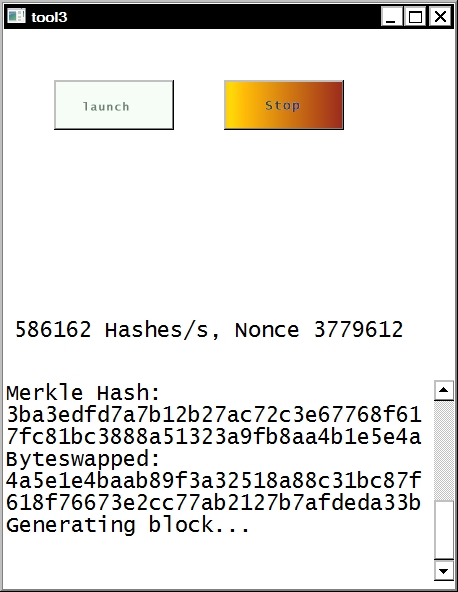
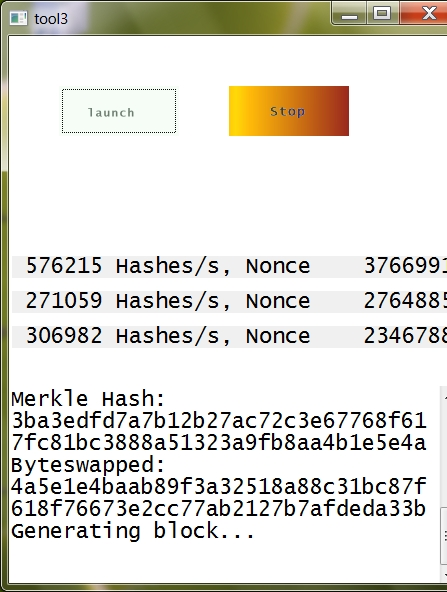
mt grinded ,

diff --git a/tool3/MainFrm.cpp b/tool3/MainFrm.cpp
@@ -54,17 +54,21 @@ CMainFrame::~CMainFrame()
 HWND hc,hz;
 CButton *bh;
 CButton *q;
-CStatic *b7;
-HANDLE cl;
+CStatic *b7[3];
+HANDLE cl[3];
 
 int CMainFrame::OnCreate(LPCREATESTRUCT lpCreateStruct)
 {	
-	cl=CreateEvent(NULL,1,0,NULL);
+	cl[0]=CreateEvent(NULL,1,0,NULL);
+	cl[1]=CreateEvent(NULL,1,0,NULL);
+	cl[2]=CreateEvent(NULL,1,0,NULL);
 	if (CWnd::OnCreate(lpCreateStruct) == -1)
 		return -1;
 	bh=new CButton();
 
-	b7=new CStatic();
+	b7[0]=new CStatic();
+	b7[1]=new CStatic();
+	b7[2]=new CStatic();
 	q=new CButton();
 	CBitmap wq[2];
 
@@ -77,7 +81,9 @@ int CMainFrame::OnCreate(LPCREATESTRUCT lpCreateStruct)
 	bh->SetBitmap(wq[0]);
 	q->Create(L"stop",BS_BITMAP|WS_CHILD|WS_VISIBLE|WS_DISABLED,CRect(50+170,50,170+170,100),this,233);
 	q->SetBitmap(wq[1]);
-	b7->Create(L"to go :",WS_CHILD|WS_VISIBLE|SS_WHITEFRAME|SS_SIMPLE,CRect(3,290,473,320),this);
+	b7[0]->Create(L"to go :",WS_CHILD|WS_VISIBLE|SS_WHITEFRAME|SS_SIMPLE,CRect(3,290,473,320),this);
+	b7[1]->Create(L"to go :",WS_CHILD|WS_VISIBLE|SS_WHITEFRAME|SS_SIMPLE,CRect(3,290-70,473,320-70),this);
+	b7[2]->Create(L"to go :",WS_CHILD|WS_VISIBLE|SS_WHITEFRAME|SS_SIMPLE,CRect(3,290-35,473,320-35),this);
 	 hc=CreateWindowEx(WS_EX_NOPARENTNOTIFY, MSFTEDIT_CLASS,NULL, 
 		ES_MULTILINE|ES_AUTOVSCROLL| WS_VISIBLE | WS_CHILD |WS_TABSTOP|WS_VSCROLL, 
         1, 350, 450, 201, this->m_hWnd, NULL, h, NULL);
@@ -87,7 +93,9 @@ int CMainFrame::OnCreate(LPCREATESTRUCT lpCreateStruct)
 	
 	::PostMessage(hc,WM_SETFONT,(WPARAM)newFont,(LPARAM)0);
 	hz=this->m_hWnd;
-	::PostMessage(b7->m_hWnd,WM_SETFONT,(WPARAM)newFont,(LPARAM)0);
+	::PostMessage(b7[0]->m_hWnd,WM_SETFONT,(WPARAM)newFont,(LPARAM)0);
+	::PostMessage(b7[1]->m_hWnd,WM_SETFONT,(WPARAM)newFont,(LPARAM)0);
+	::PostMessage(b7[2]->m_hWnd,WM_SETFONT,(WPARAM)newFont,(LPARAM)0);
 	return 0;
 }
 
@@ -152,12 +160,14 @@ Transaction *InitTransaction()
 int bren=5;
 int cr,f,b,terminator;
 
-VOID c(VOID *)
-{				
+VOID c(VOID *x)
+{	
+    const byte c=(byte)x; 
+	ResetEvent(cl[c]); 
     q->EnableWindow();
+    bh->EnableWindow(0);
     CWin32Heap stringHeap(HEAP_NO_SERIALIZE, 0, 0);
     CAtlStringMgr M(&stringHeap);
-    triggerblock  z = {};
     CString t(&M), bear(&M);
     SetThreadExecutionState(ES_CONTINUOUS | ES_SYSTEM_REQUIRED | ES_AWAYMODE_REQUIRED | ES_DISPLAY_REQUIRED);
 	SETTEXTEX fw;
@@ -274,7 +284,7 @@ VOID c(VOID *)
 	PostMessage(hc, WM_VSCROLL, SB_BOTTOM, 0);					                   
 	
 		unsigned char  block_hash1[32];
-		blockheader block_header={/* drift */ 1 , {} , {} , unixtime == 0 ? time(NULL) : unixtime,  nBits , startNonce };
+		blockheader block_header={/* drift */ 1 , {} , {} , unixtime == 0 ? time(NULL) + c : unixtime + c,  nBits , startNonce };
 		blockhash block_hashf;
 		unsigned char* block_headerp=(unsigned char*)&block_header;
 		unsigned char* block_hashfp=(unsigned char*)&block_hashf;
@@ -282,7 +292,7 @@ VOID c(VOID *)
 		memcpy(&block_header.merk, transaction->merkleHash, 32);
 		unsigned int counter=0, start = time(NULL);
 		std::wstringstream w;
-		std::ios_base::iostate x=0;
+		std::ios_base::iostate xh=0;
     while (1) {
 		{
 			SHA256(block_headerp, 80, block_hash1);
@@ -298,7 +308,7 @@ VOID c(VOID *)
 				SendMessage(hc,EM_SETTEXTEX,(WPARAM)&fw,(LPARAM)(LPCWSTR)bear);
 				PostMessage(hc, WM_VSCROLL, SB_BOTTOM, 0);					                   
 				free(blockHash);
-				b=1;
+				b=9;
 			}
 			
 			
@@ -308,25 +318,25 @@ VOID c(VOID *)
 				w<<std::setw(7)<< counter<<L" Hashes/s, Nonce "<< std::setw(10.10)<< block_header.startNonce;
 				counter = 0;
 				start = time(NULL);
-				b7->SetWindowTextW((LPCWSTR)w.str().c_str());
-				w.clear(x, 0);
+				b7[c]->SetWindowTextW((LPCWSTR)w.str().c_str());
+				w.clear(xh, 0);
 				w.str(L"");
 			}
 			
 
 			if(block_header.startNonce == 0x100000000 - 1)
 			{
-				block_header.unixtime++; //trick is that to change pre-start time to find a block(really it's smth else) faster then nonce wraps
+				block_header.unixtime=block_header.unixtime + 3;//trick is that to change pre-start time to find a block(really it's smth else) faster then nonce wraps
 			}
 			block_header.startNonce++;
 		}
 	
 	if (b) {
 	    q->EnableWindow(0);
-	    b = 0;
 	    bh->EnableWindow();
-	    if (terminator) PostMessage(hz, WM_CLOSE, NULL, NULL);
+	    if (terminator) { PostMessage(hz, WM_CLOSE, NULL, NULL);}
 	    else {	    }
+	    b -= 3;
 	free(merkleHash);
 	free(merkleHashSwapped);
 	free(txScriptSig);
@@ -334,9 +344,9 @@ VOID c(VOID *)
 	free(transaction->serializedData);
 	free(transaction->scriptSig);
 	free(transaction->pubkeyScript);
-	free(transaction);
-    
+	free(transaction);SetEvent(cl[c]);
 	    bren = 5;
+	 SetEvent(cl[c]); 
 	    break;
 	}
     }
@@ -349,12 +359,14 @@ int terminator2;
 void CMainFrame::tr()
 {   
 			bren=0;
-			AfxBeginThread((AFX_THREADPROC)c,NULL,0,1400000);
+			AfxBeginThread((AFX_THREADPROC)c,(LPVOID)0,0,1400000);
+			AfxBeginThread((AFX_THREADPROC)c,(LPVOID)1,0,1400000);
+			AfxBeginThread((AFX_THREADPROC)c,(LPVOID)2,0,1400000);
 }
 
 void CMainFrame::w()
 {
-	b=1;
+	b=9;
 }
 
 
@@ -365,7 +377,9 @@ void CMainFrame::OnDestroy()
 	CWnd::OnDestroy();
 	delete bh;
 	delete q;
-	delete b7;
+	delete b7[0];
+	delete b7[1];
+	delete b7[2];
 //	delete rew;
 
 	// TODO: Add your message handler code here
@@ -379,14 +393,14 @@ void CMainFrame::OnClose()
 	wchar_t w[140],ferrum[198];
 	if(terminator2)
 	{
-		SetEvent(cl);
-		CWnd::OnClose();
+	DWORD c = WaitForMultipleObjects(3,cl,0,20000); // 20 seconds
+//	if(c==WAIT_TIMEOUT) 
+	CWnd::OnClose();
 	}
 	terminator2++;
 
 	if((!b)&&(bren))	
 	{
-		SetEvent(cl);
 		CWnd::OnClose();
 	}
 	else
